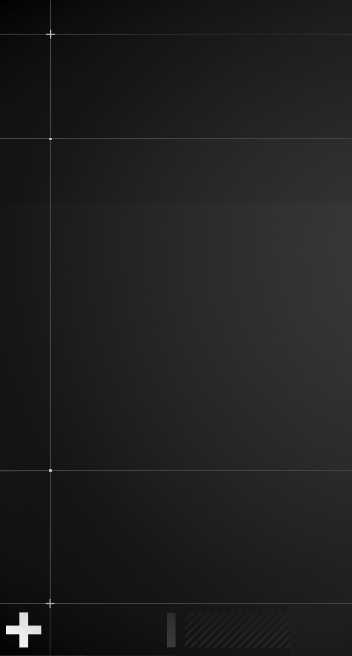
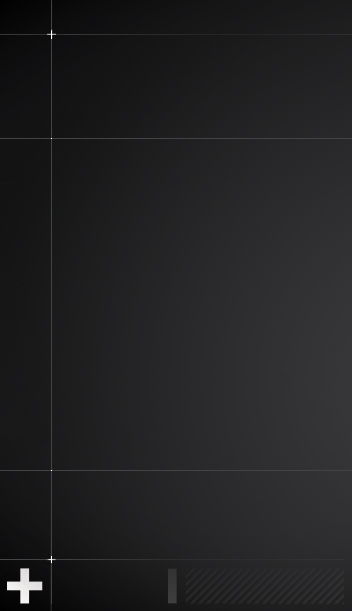
changes

Changed region(s): [[0.0, 0.0, 0.2188, 1.0], [0.0, 0.0311, 0.0625, 0.0622]]

diff --git a/projektor/cognex_plugin.js b/projektor/cognex_plugin.js
@@ -45,11 +45,11 @@
                 autoplay: false,
                 description_template: {src: "descriptions.html", type:"text/html"},
                 playlist: [{
-                            0: {src: "media/hotbars/1.webm", 
+                            0: {src: "http://jamesemmettdesign.com/cognex_video/projektor/media/hotbars/1.webm", 
                                 type: "video/webm", title: 'Hotbars'},
-                            1: {src: "media/hotbars/1.webm", 
+                            1: {src: "http://jamesemmettdesign.com/cognex_video/projektor/media/hotbars/1.webm", 
                                 type: "video/webm", title: 'Hotbars'},
-                            2: {src: "media/hotbars/1.webm", 
+                            2: {src: "http://jamesemmettdesign.com/cognex_video/projektor/media/hotbars/1.webm", 
                                 type: "video/webm", title: 'Hotbars'},
                             },
                             

diff --git a/projektor/themes/maccaco/projekktor.style.css b/projektor/themes/maccaco/projekktor.style.css
@@ -249,7 +249,7 @@ controlbar plugin
     background: url("maccaco.png") no-repeat right top transparent;
     cursor: pointer;
     border-left: 1px solid #413e3e;
-    margin: -30px 0 0 460px;
+    margin: -30px 0 0 123px;
 }
 .ppfsenter:hover {
     background: url("maccaco.png") no-repeat right -35px transparent;
@@ -415,7 +415,7 @@ background: url("maccaco.png") no-repeat -91px top transparent;
 .control-wrap{
 margin: -38px 0 0 350px;
 background: #2c2d2d;
-width: 117px;
+width: 157px;
 border: 2px solid #000;
 padding: 16px 0;
 border-radius: 5px;
@@ -494,7 +494,7 @@ border-radius: 10px;
 }
 
 .pp-time{
-    margin: -26px 0 0 119px;
+    margin: -36px 0 0 119px;
     font-size: 9px;
     font-weight: normal;
     position: absolute;

diff --git a/projektor/cognex_player_style.css b/projektor/cognex_player_style.css
@@ -31,8 +31,9 @@ html{
 	margin: 46px 10px 0 20px;
 	border: 4px solid #333;
 	padding: 9px;
-
+	width:640px;
 }
+
  br.clear{
  	clear:both;
  }
